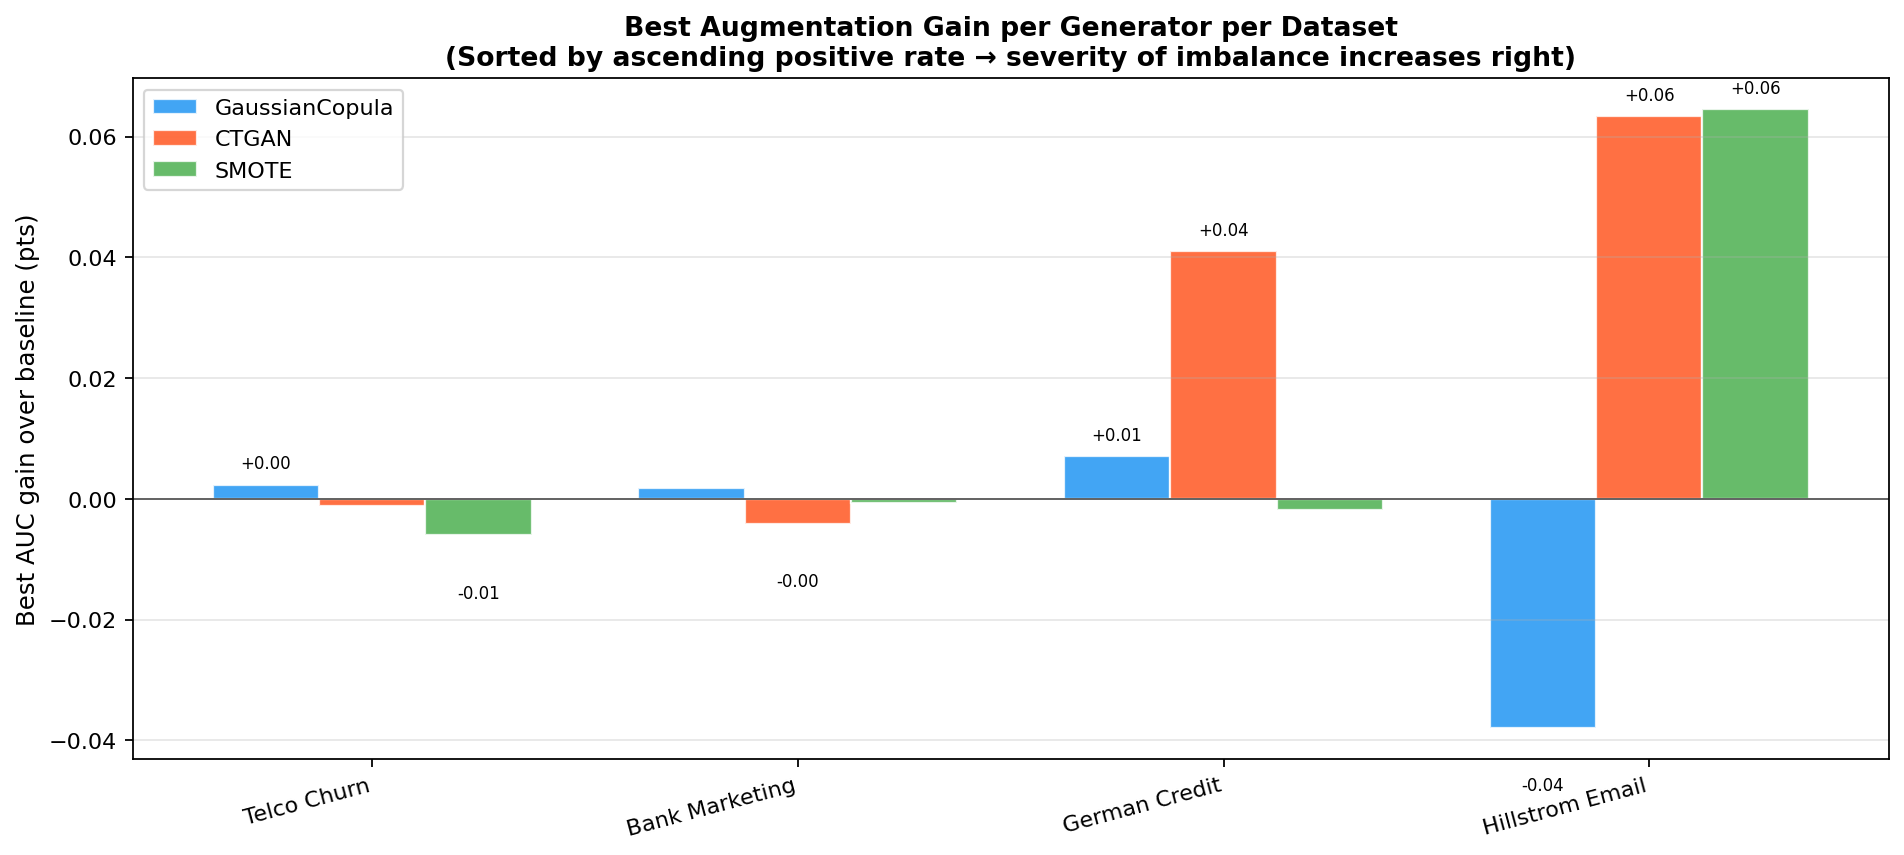
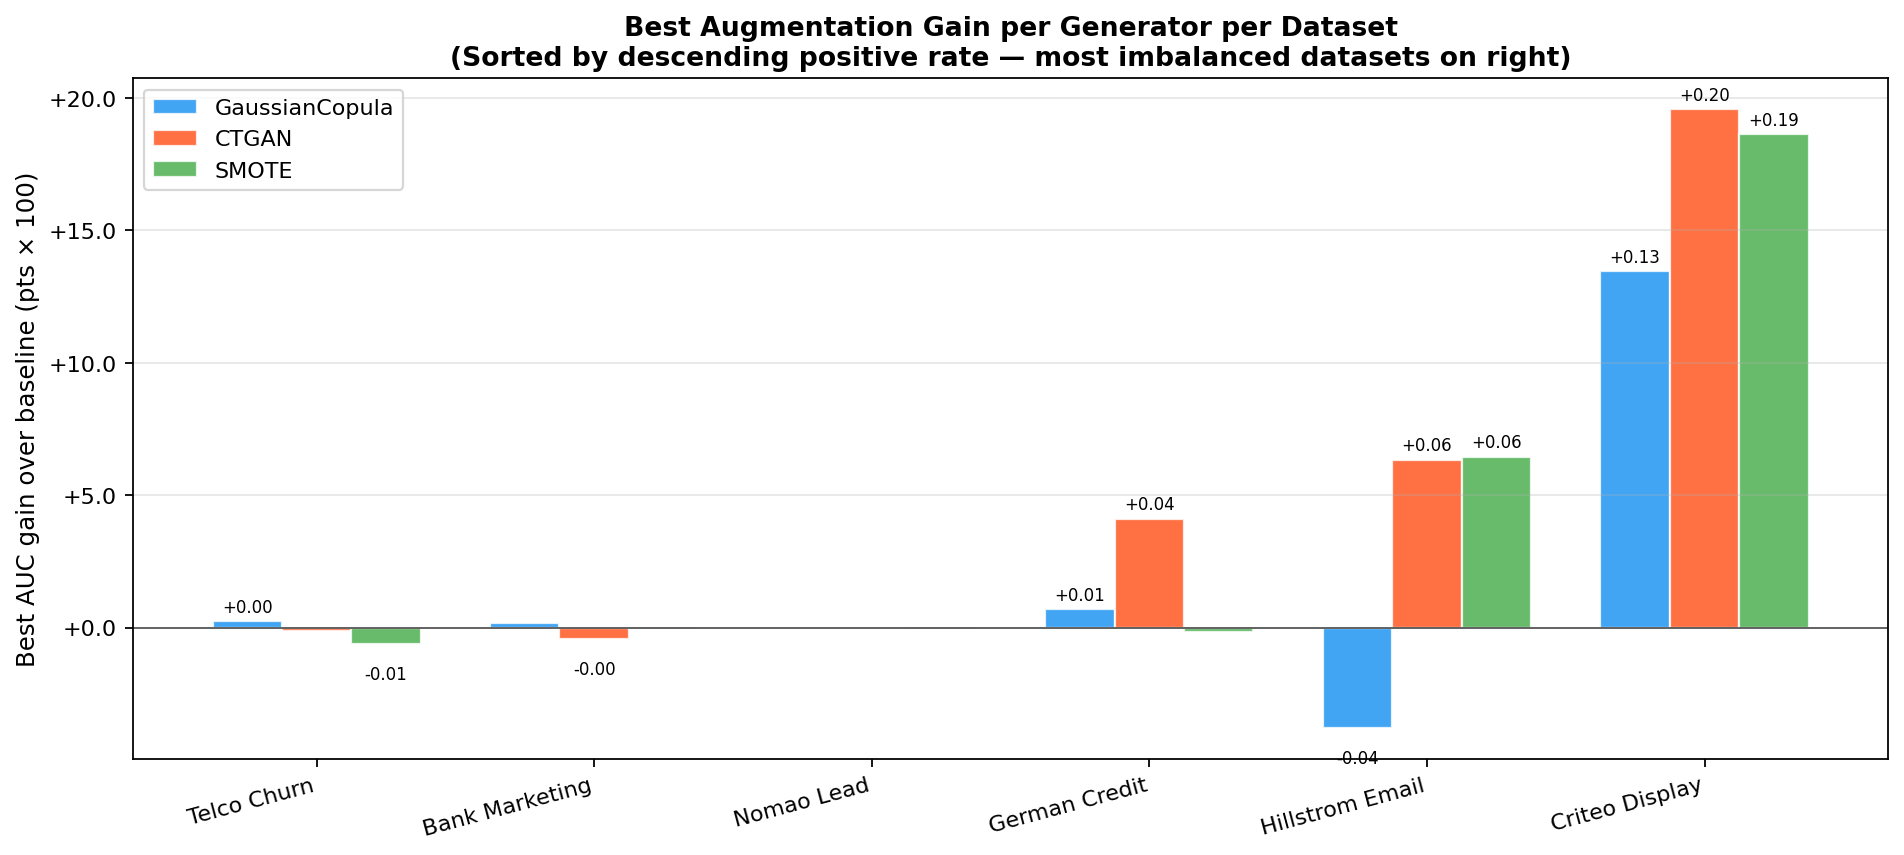
Fix plots: correct dataset key names, add Criteo, fix y-axis scaling

diff --git a/experiments/make_plots.py b/experiments/make_plots.py
@@ -52,8 +52,8 @@ datasets_meta = {
     "bank_marketing":  {"label": "Bank Marketing",  "pos_rate": 11.7, "n": 15000},
     "credit_default":  {"label": "German Credit",   "pos_rate": 30.0, "n": 1000},
     "hillstrom":       {"label": "Hillstrom Email", "pos_rate": 0.9,  "n": 10000},
-    "criteo_uplift":   {"label": "Criteo Display",  "pos_rate": 0.2,  "n": 10000},
-    "kdd_appetency":   {"label": "KDD Appetency",   "pos_rate": 6.7,  "n": 5000},
+    "criteo":          {"label": "Criteo Display",  "pos_rate": 0.2,  "n": 10000},
+    "nomao_lead":      {"label": "Nomao Lead",       "pos_rate": 28.3, "n": 10000},
 }
 
 frames = {k: load(k) for k, _ in datasets_meta.items()}
@@ -350,8 +350,8 @@ plot_ci(
 
 if gain_data:
     df_gain_full = pd.DataFrame(gain_data)
-    dataset_order = ["Telco Churn", "Bank Marketing", "German Credit",
-                     "KDD Appetency", "Hillstrom Email", "Criteo Display"]
+    dataset_order = ["Telco Churn", "Bank Marketing", "Nomao Lead", "German Credit",
+                     "Hillstrom Email", "Criteo Display"]
     dataset_order = [d for d in dataset_order if d in df_gain_full["dataset"].values]
 
     fig, ax = plt.subplots(figsize=(12, 5.5))
@@ -374,9 +374,10 @@ if gain_data:
     ax.axhline(0, color="#555", linewidth=0.8)
     ax.set_xticks(x + width)
     ax.set_xticklabels(dataset_order, rotation=15, ha="right", fontsize=10)
-    ax.set_ylabel("Best AUC gain over baseline (pts)", fontsize=11)
+    ax.yaxis.set_major_formatter(plt.FuncFormatter(lambda v, _: f"{v*100:+.1f}"))
+    ax.set_ylabel("Best AUC gain over baseline (pts × 100)", fontsize=11)
     ax.set_title("Best Augmentation Gain per Generator per Dataset\n"
-                 "(Sorted by ascending positive rate → severity of imbalance increases right)",
+                 "(Sorted by descending positive rate — most imbalanced datasets on right)",
                  fontsize=12, fontweight="bold")
     ax.legend(fontsize=10)
     ax.grid(axis="y", alpha=0.3)
